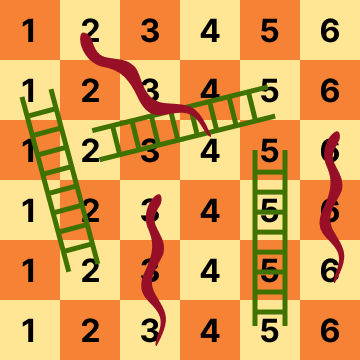
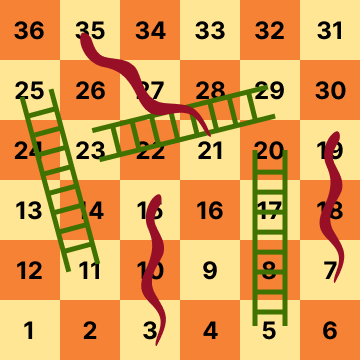
feat/newboard

diff --git a/js/constant.js b/js/constant.js
@@ -22,7 +22,7 @@ const SNAKES_AND_LADDERS_01 = {
 };
 
 
-const GAME_BOARD_BG_02 = "./img/bg4.jpg";
+const GAME_BOARD_BG_02 = "./img/bg5.jpg";
 const SNAKES_AND_LADDERS_02 = {
     5: 58,
     14: 49,
@@ -36,10 +36,9 @@ const SNAKES_AND_LADDERS_02 = {
 };
 
 const SNAKES_AND_LADDERS_03 = {
-    5:20,
-    11:25,
-    23:29,
-    15:3,
-    19:7,
-    35:21,
+    12:23,
+    17:21,
+    19:32,
+    18:5,
+    35:28,
 }
